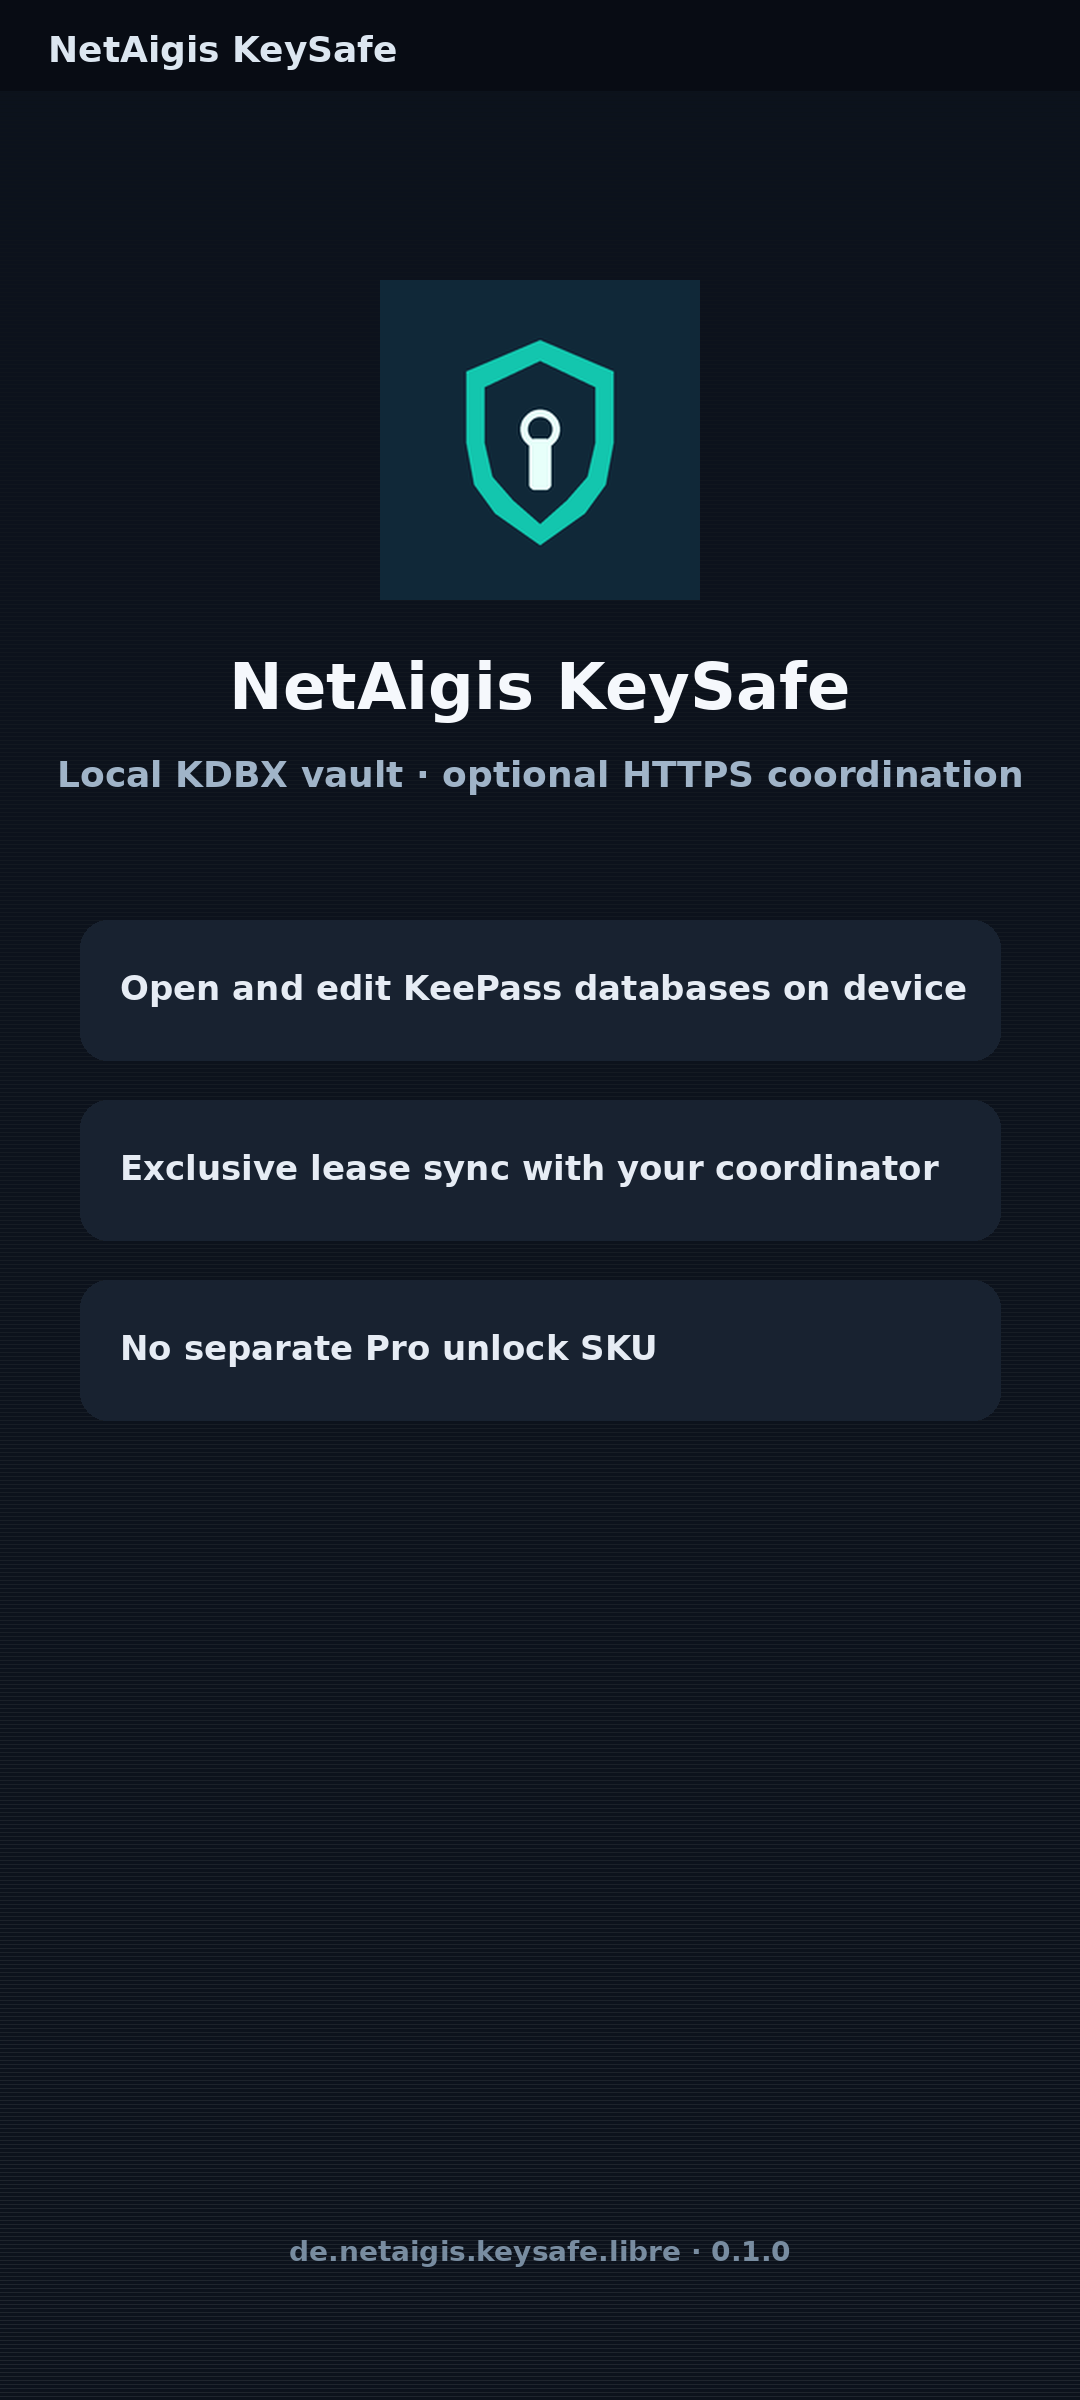
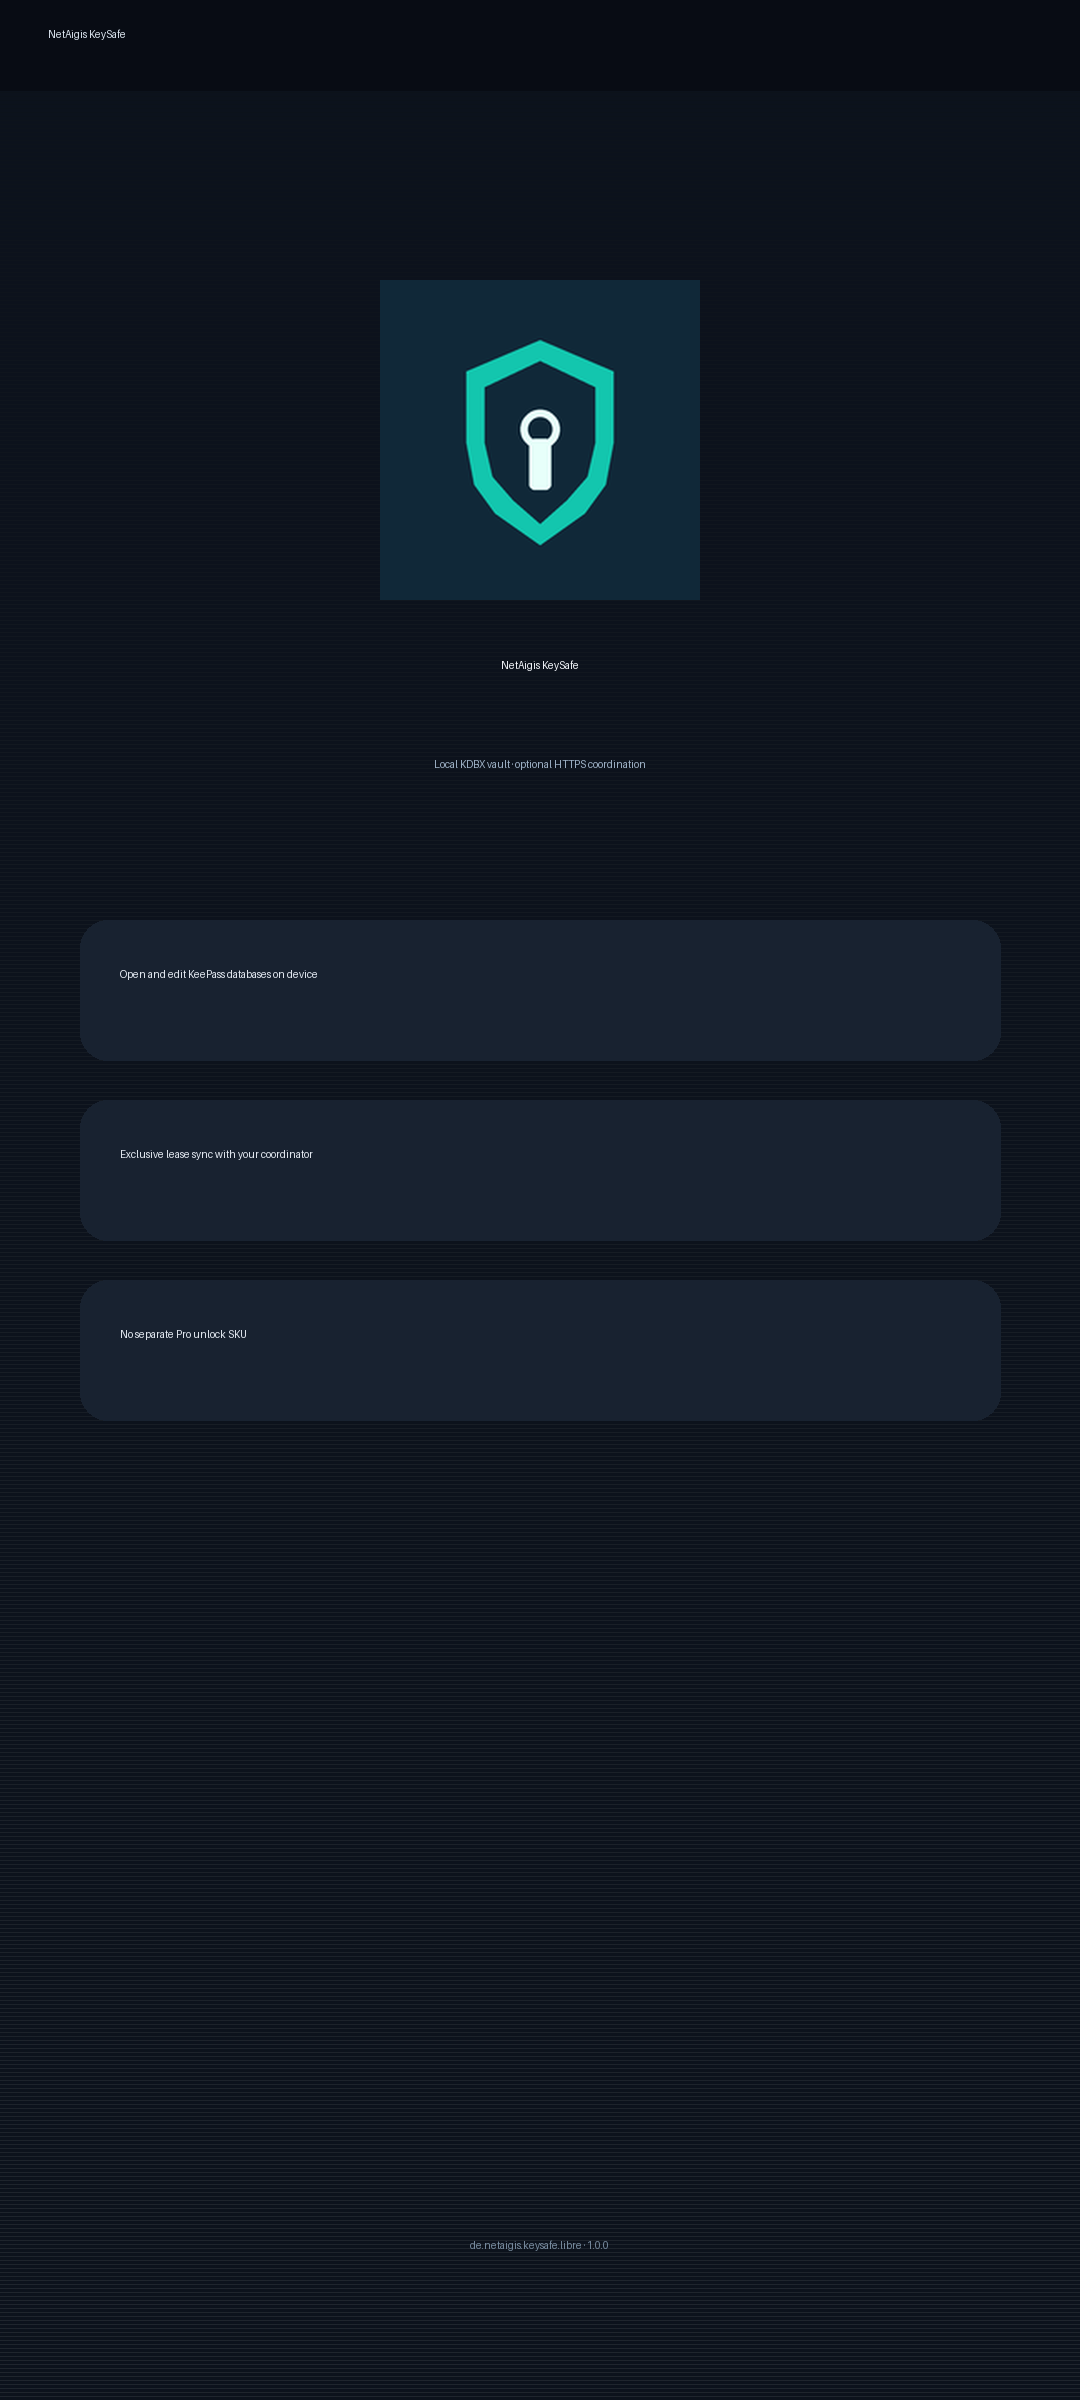
Bump NetAigis KeySafe to 1.0.0 as the first public release line.

diff --git a/docs/KEYSAFE_RELEASE_NOTES.md b/docs/KEYSAFE_RELEASE_NOTES.md
@@ -2,11 +2,13 @@
 
 Upstream KeePassDX changelog history remains in the repository as heritage, not as KeySafe store release notes.
 
-## 0.1.0 (2026-11-21)
+## 1.0.0 (2026-11-21)
 
-**versionCode:** 1001  
+**versionCode:** 10000  
 **Android packages:** `de.netaigis.keysafe.libre`, `de.netaigis.keysafe.free`  
-**Desktop:** `.version` `0.1.0` (`de.netaigis.keysafe.desktop`)
+**Desktop:** `.version` `1.0.0` (`de.netaigis.keysafe.desktop`)
+
+First public NetAigis KeySafe release line (supersedes the interim `0.1.0` / `0.1.0-dev` numbering).
 
 ### Highlights
 
@@ -32,9 +34,9 @@ Keystore material is **not** in git (`keysafe-release.jks`, `keystore.properties
 
 ### Store assets
 
-- Fastlane en-US / de-DE descriptions + changelog `1001`
+- Fastlane en-US / de-DE descriptions + changelog `10000`
 - Phone screenshots under `fastlane/metadata/android/*/images/phoneScreenshots/`
 
-## 0.1.0-dev (pre-release)
+## 0.1.0 (superseded)
 
-Development line superseded by 0.1.0.
+Interim tag during packaging; product line continues as **1.0.0**.

diff --git a/docs/KEYSAFE_SIGNING.md b/docs/KEYSAFE_SIGNING.md
@@ -29,9 +29,9 @@ Store as GitHub Actions secrets (never in the repo):
 
 Decode the store onto the runner ephemeral disk in the release workflow; wipe after upload.
 
-## Local 0.1.0 keystore
+## Local release keystore
 
-Generated on the release builder for 0.1.0 (gitignored):
+Generated on the release builder for 1.0.0 (gitignored):
 
 - Files: `keysafe-release.jks`, `keystore.properties`
 - Alias: `keysafe`
@@ -48,7 +48,7 @@ CI secrets for `.github/workflows/release-apk.yml`:
 
 ## Checklist
 
-- [x] Keystore generated locally for 0.1.0
+- [x] Keystore generated locally (used for 1.0.0 signed APKs)
 - [ ] Offline escrow/backup completed by operator
 - [ ] CI secrets loaded for tag builds
 - [ ] Play App Signing / F-Droid signing policy decided

diff --git a/docs/KEYSAFE_RELEASE_CHECKLIST.md b/docs/KEYSAFE_RELEASE_CHECKLIST.md
@@ -1,9 +1,9 @@
 # NetAigis KeySafe — release checklist
 
-## Closed for 0.1.0
+## Closed for 1.0.0
 
 - [x] Independent display name and Android application identifiers per flavor
-- [x] Project version `0.1.0` / versionCode `1001` (Desktop `.version` `0.1.0`)
+- [x] Project version `1.0.0` / versionCode `10000` (Desktop `.version` `1.0.0`)
 - [x] HTTPS coordinator preserved (protocol NOT certified secure)
 - [x] Replace upstream donation/Pro ownership identification (no Pro SKU)
 - [x] Preserve upstream copyright/license notices and credit
